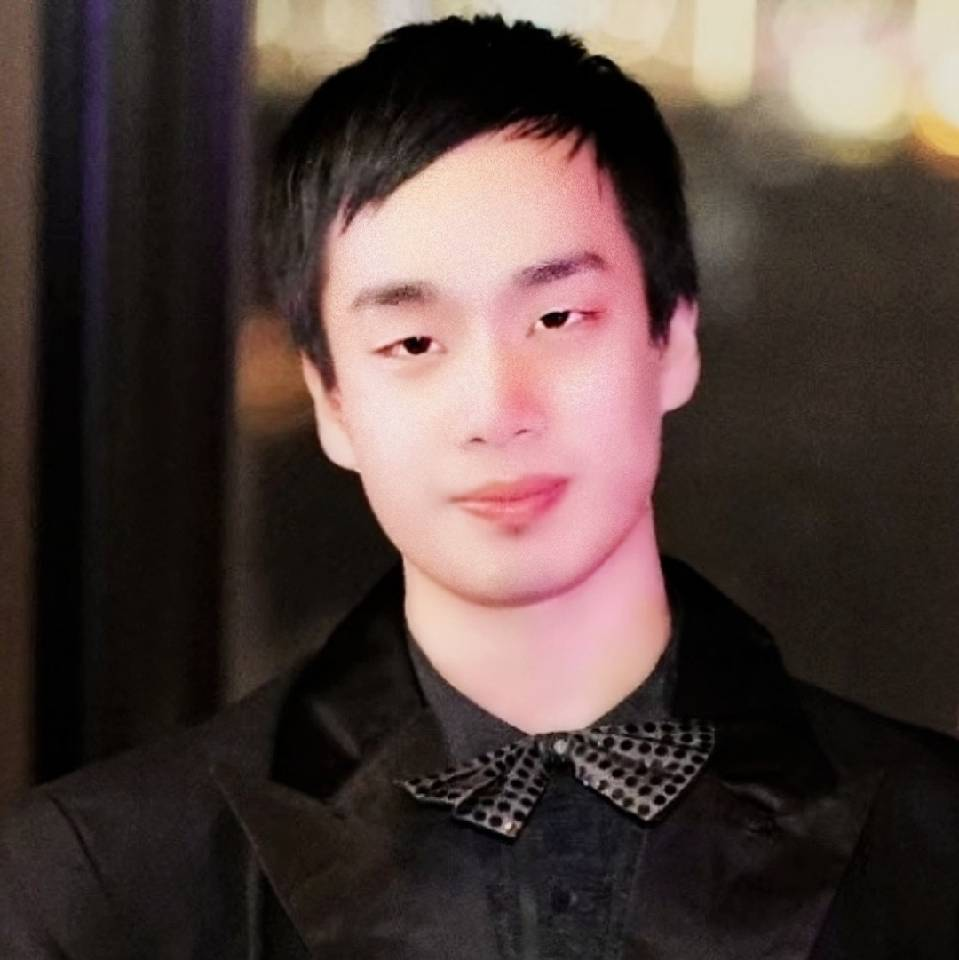
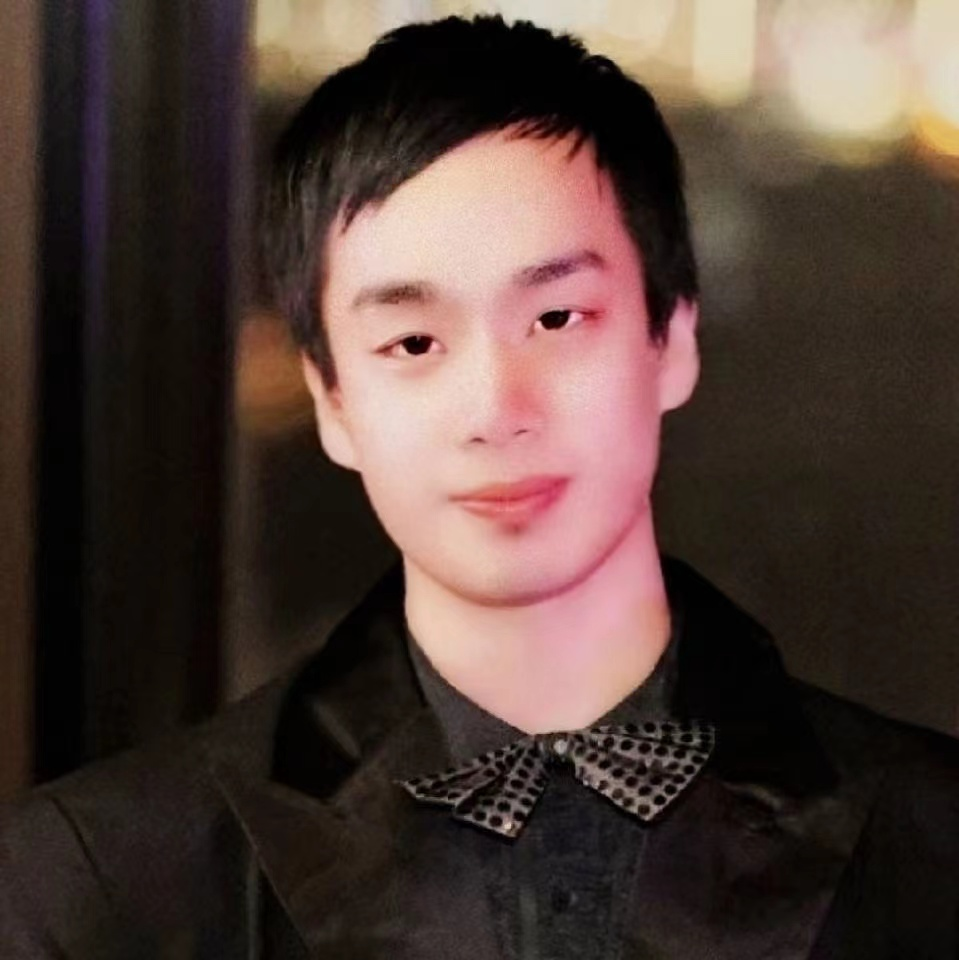
Update Author “admin/_index”

diff --git a/content/authors/admin/_index.md b/content/authors/admin/_index.md
@@ -1,7 +1,7 @@
 ---
 title: Chuyao WANG
 role: Student in computational social science
-avatar_filename: avatar.jpg
+avatar_filename: chuyao-wang-1_1.jpg
 bio: ""
 interests:
   - Applied Data Science
